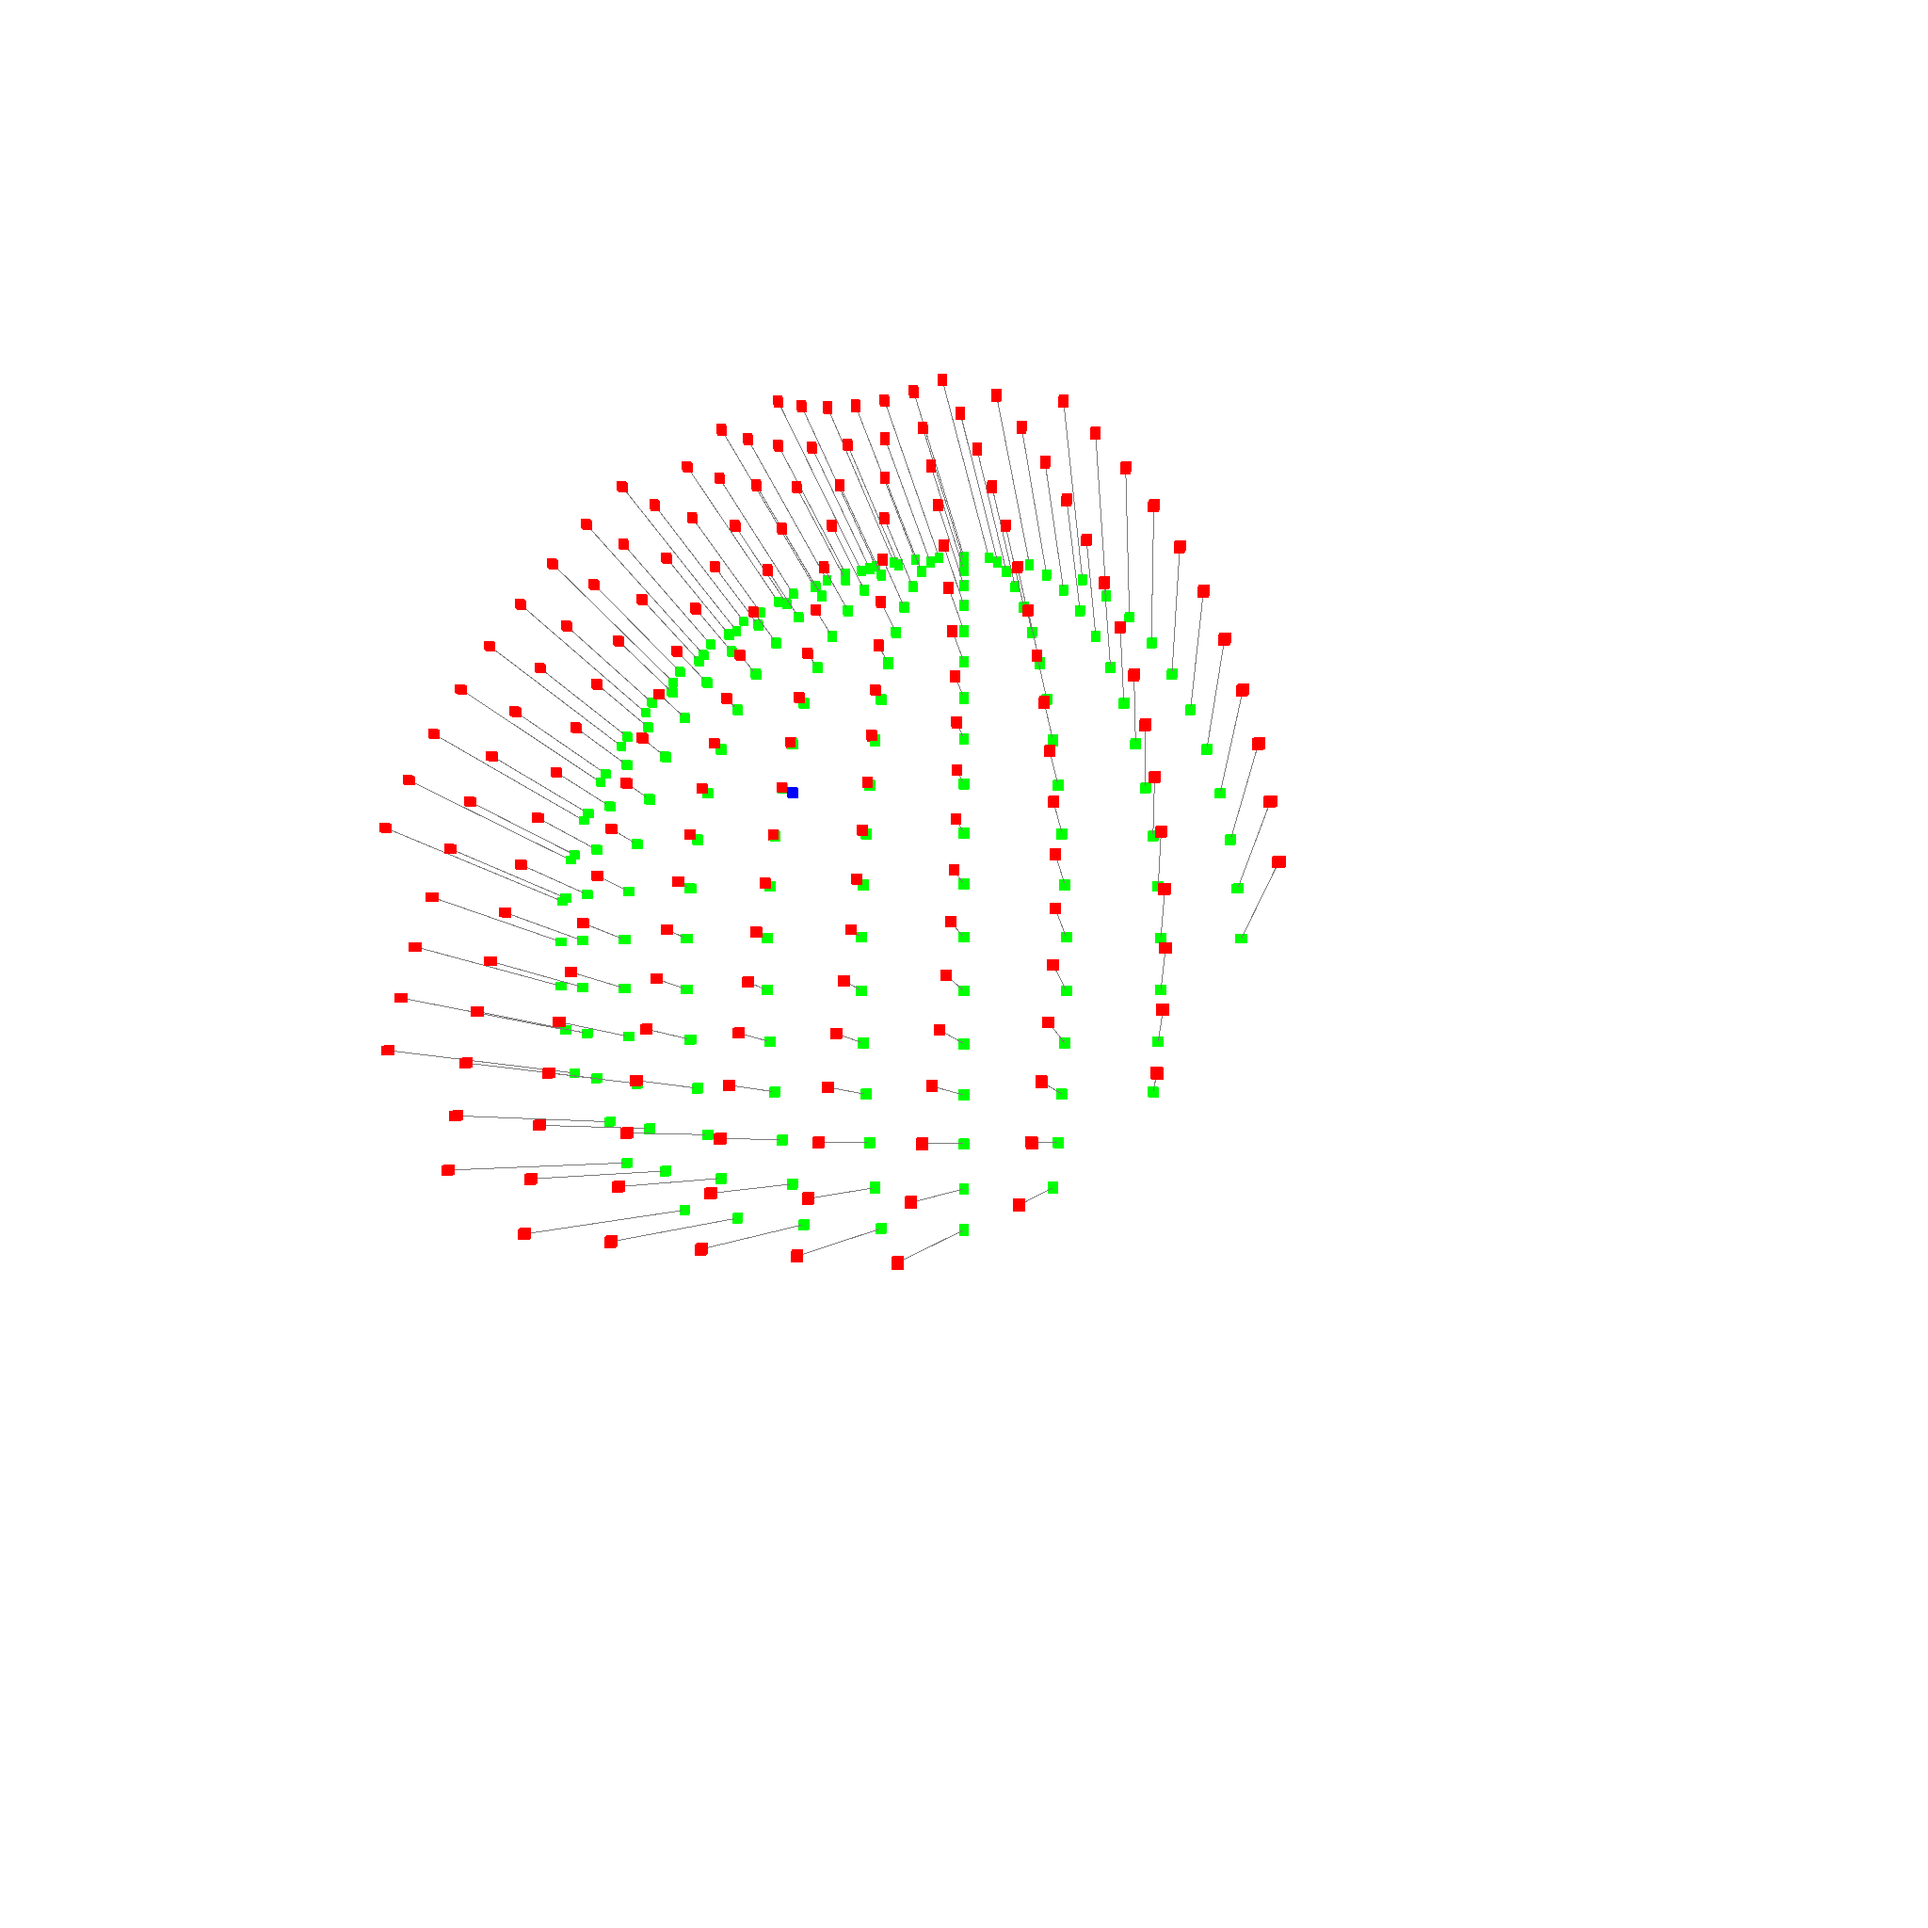
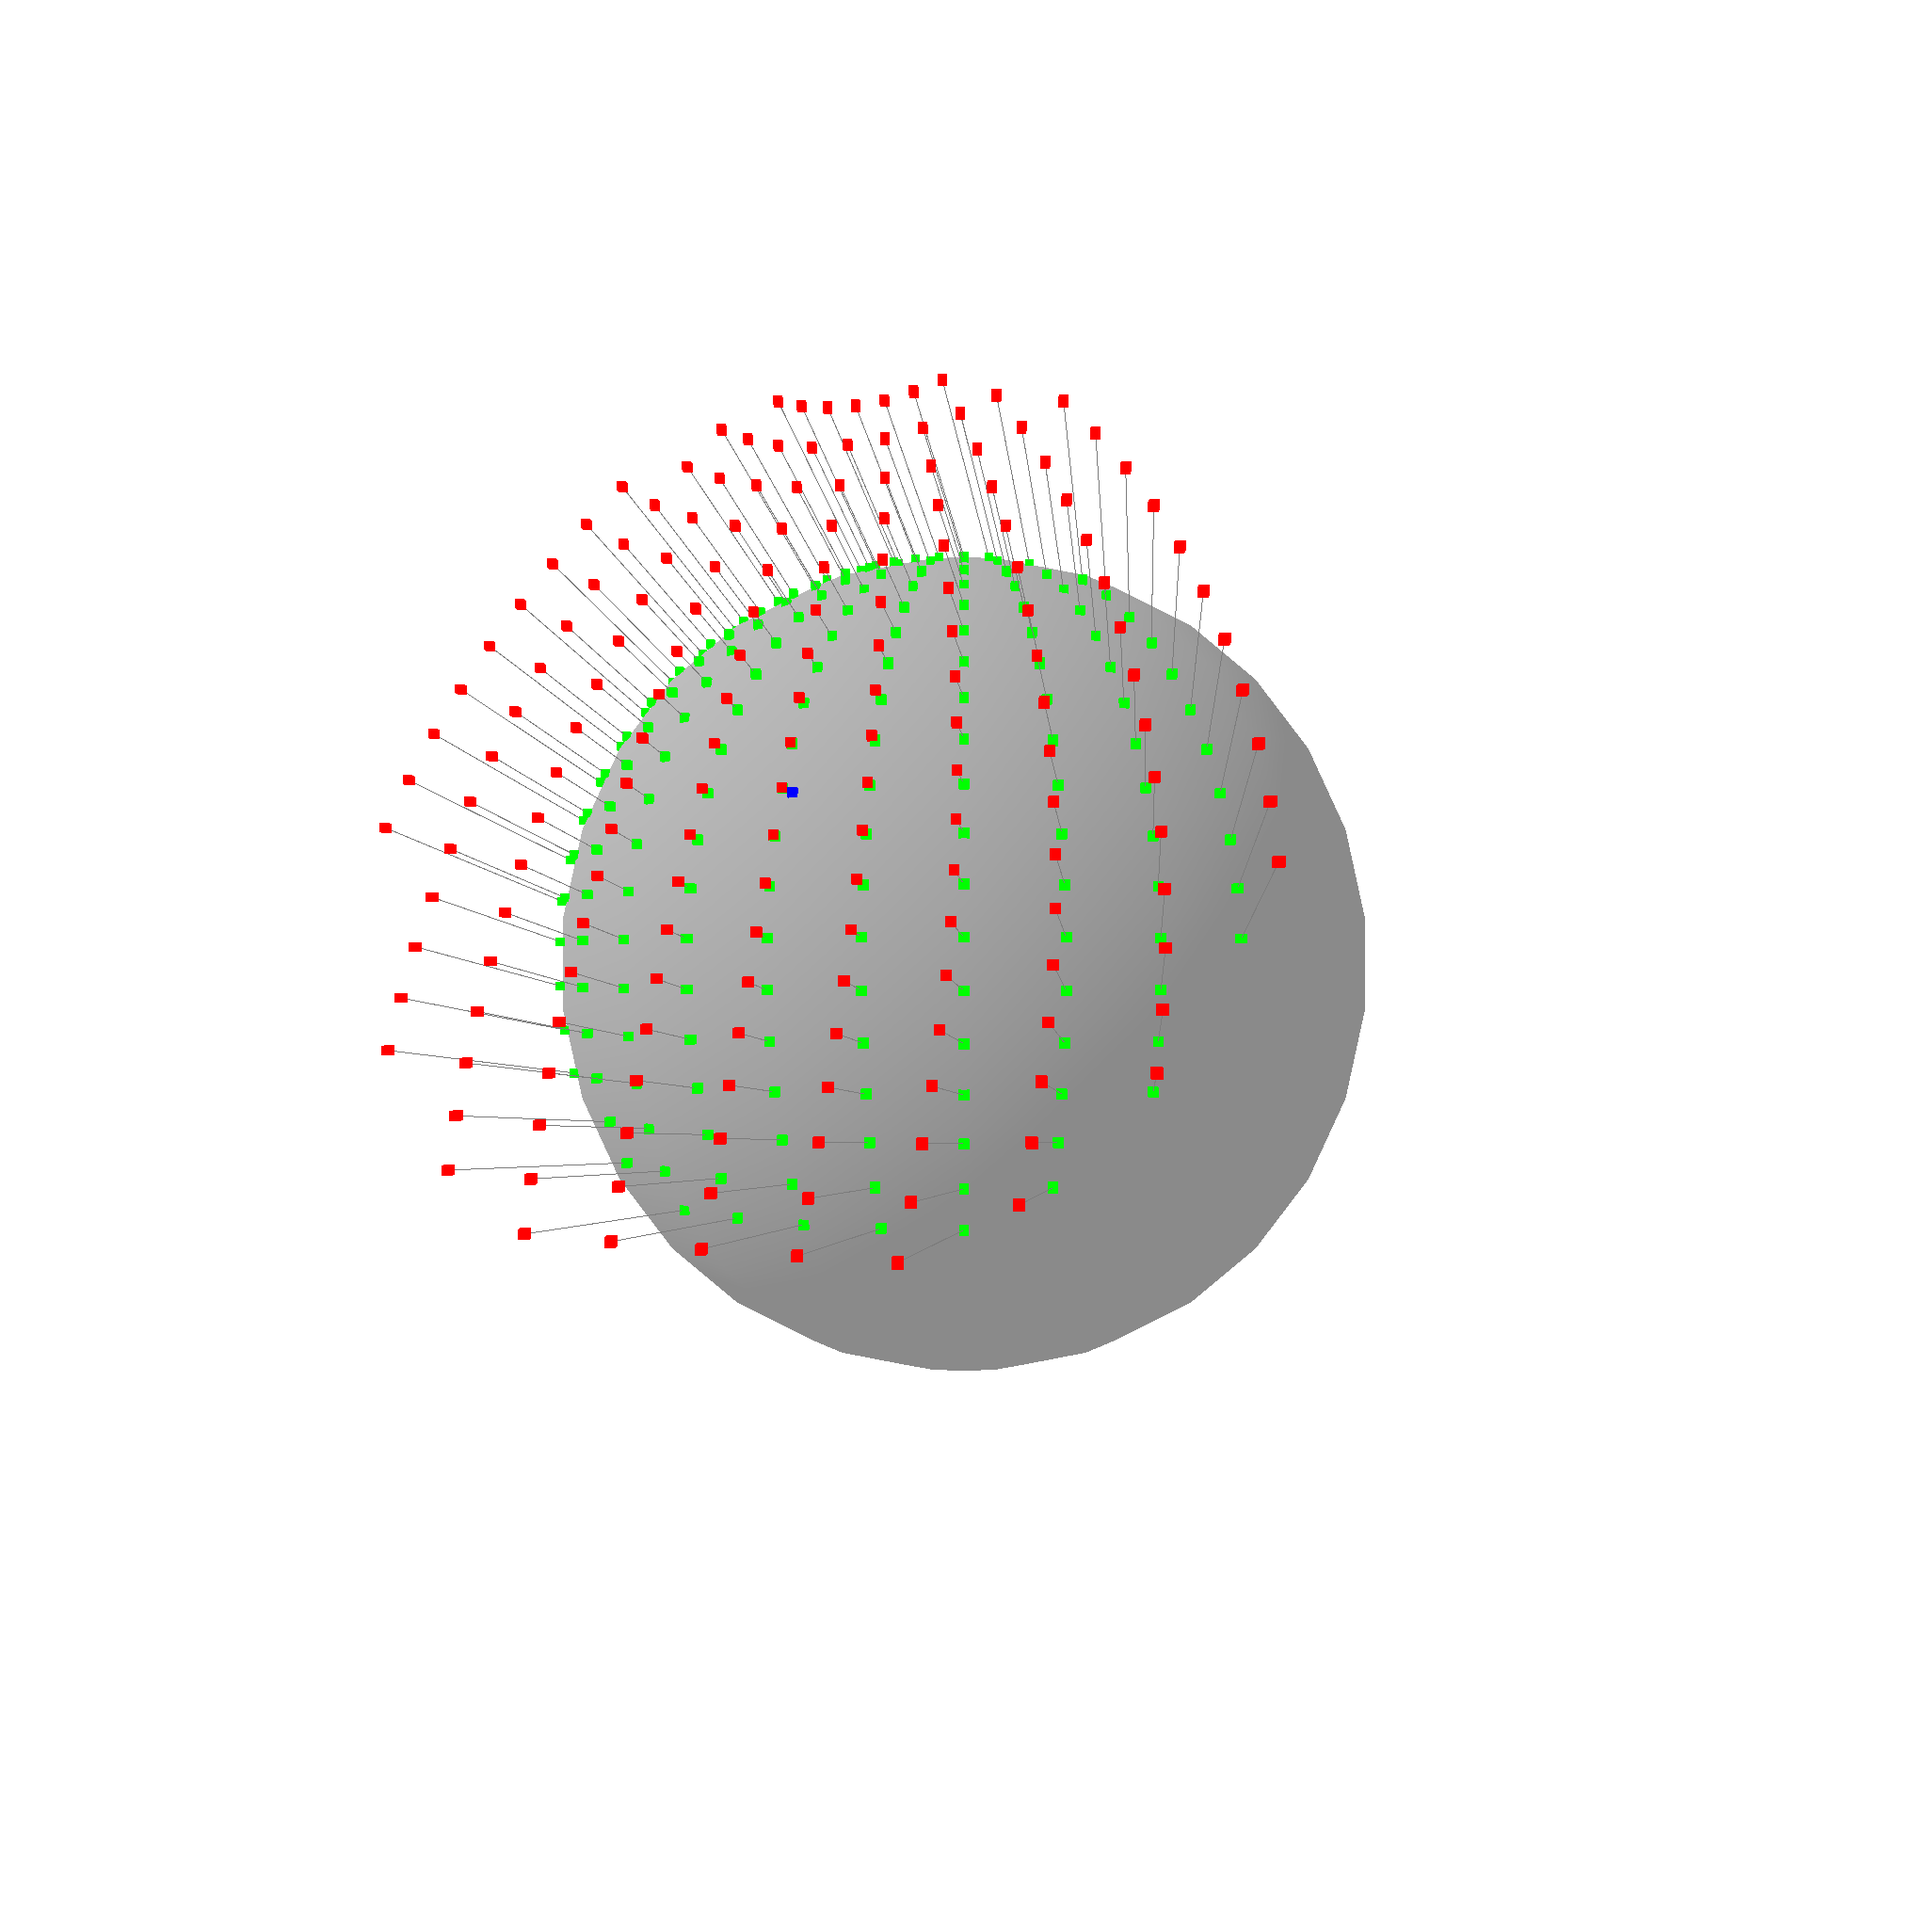
F

Changed region(s): [[0.2812, 0.2812, 0.7188, 0.7188]]

diff --git a/crates/modern-brep-kernel-book/src/graphics/geometry/surface_log_exp.rs b/crates/modern-brep-kernel-book/src/graphics/geometry/surface_log_exp.rs
@@ -14,7 +14,7 @@ mod tests {
     async fn test_surface_log_operation_unit_x(#[future] renderer: Box<HeadlessRenderer>) {
         let mut scene = Scene::new(vec![], vec![], vec![], vec![]);
         let face = primitive_sphere(Point::new_zero(), 1.0);
-        scene.faces.push((face.clone(), Color::white()));
+        scene.faces.push((face.clone(), Color::light_gray()));
 
         let anchor = Point::new(-0.5, -1.3, 0.5).normalize();
         scene.points.push((anchor, Color::blue()));

diff --git a/crates/modern-brep-kernel-book/src/graphics/geometry/geodesics.rs b/crates/modern-brep-kernel-book/src/graphics/geometry/geodesics.rs
@@ -16,7 +16,7 @@ mod tests {
 
         let mut scene = Scene::new(vec![], vec![], vec![], vec![]);
 
-        scene.faces.push((face.clone(), Color::white()));
+        scene.faces.push((face.clone(), Color::light_gray()));
 
         let points = vec![
             Point::new(0.1, -1.0, 0.7),

diff --git a/crates/geop-topology/src/topology/scene/mod.rs b/crates/geop-topology/src/topology/scene/mod.rs
@@ -96,6 +96,15 @@ impl Color {
         }
     }
 
+    pub fn light_gray() -> Color {
+        Color {
+            r: 0.85,
+            g: 0.85,
+            b: 0.85,
+            a: 1.0,
+        }
+    }
+
     pub fn black() -> Color {
         Color {
             r: 0.0,
